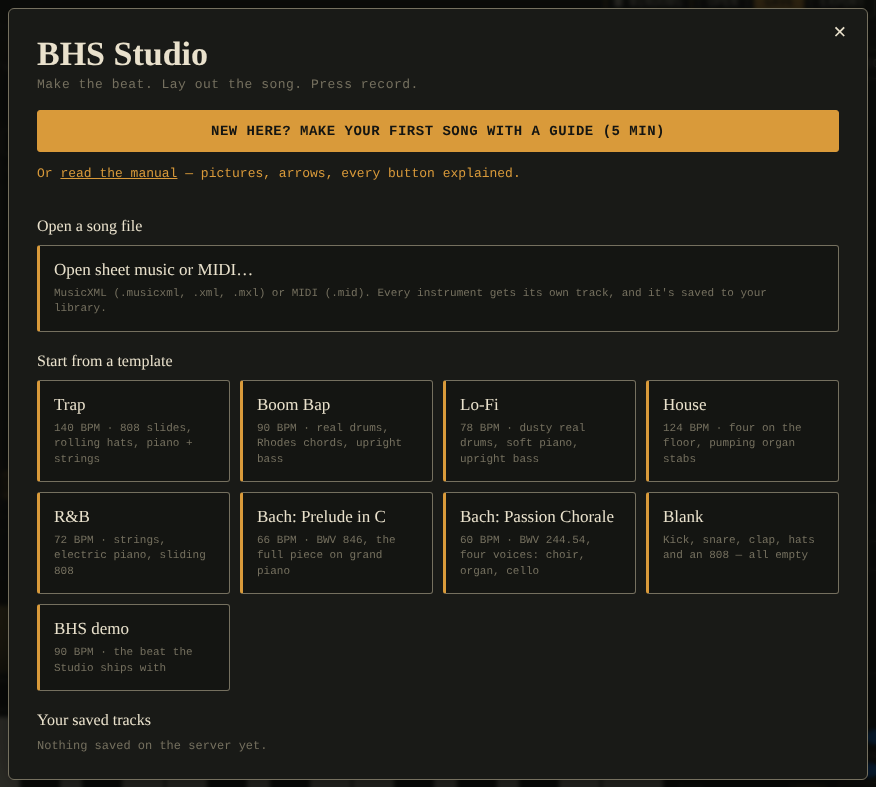
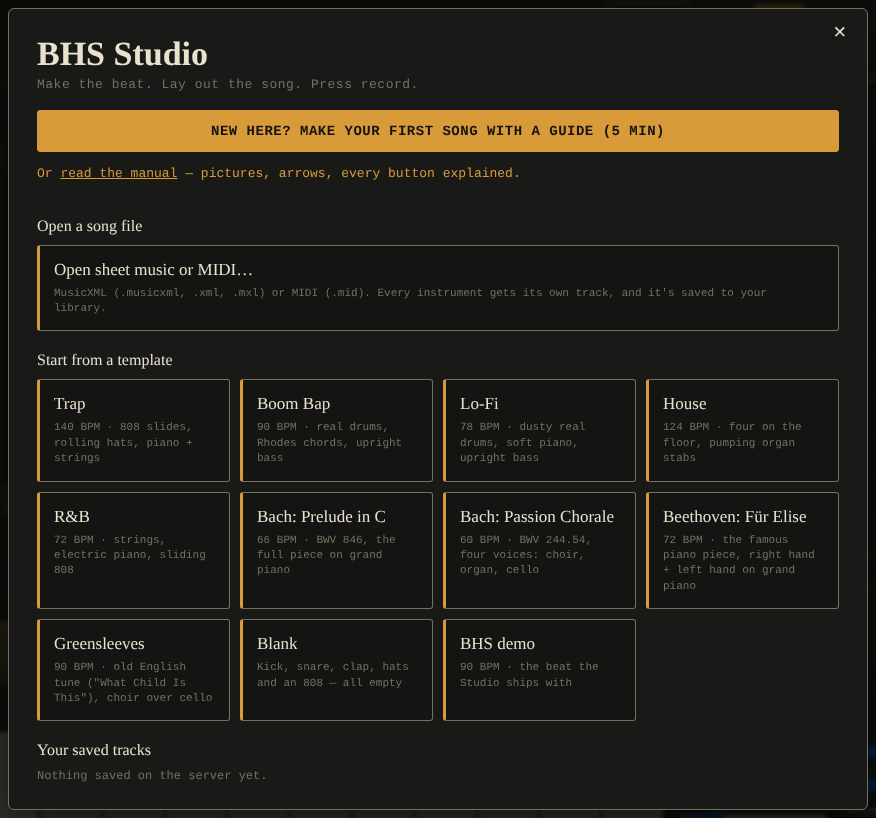
Studio: add Fur Elise and Greensleeves templates (public domain, from Mutopia)
Read from Mutopia's engraved MIDI with song-file.js. Fur Elise (Beethoven
WoO 59) on grand piano, right + left hand; Greensleeves as SATB hymn setting,
choir over cello, E minor, 90 BPM. Manual updated and re-shot.

Claude-Session: https://claude.ai/code/session_01A9NoLxQZREDjQQzigy9TKH

diff --git a/public/js/engine/templates.js b/public/js/engine/templates.js
@@ -175,6 +175,40 @@ const Templates = (() => {
         {"name": "Chorale", "bars": 13, "play": {"Soprano": "AAAABBBBCCCCD", "Alto": "AAAABBBBCCCCD", "Tenor": "AAAABBBBCCCCD", "Bass": "AAAABBBBCCCCD"}},
       ]
     },
+    // Public-domain pieces from the Mutopia Project (mutopiaproject.org), read from their
+    // engraved MIDI by song-file.js. Fur Elise: Beethoven, WoO 59 (Breitkopf & Haertel 1888 edition).
+    // Greensleeves: traditional 16th-century English melody, SATB hymn setting, upper / lower staff.
+    // The pieces are not in 4/4, so bar lines in the Studio do not match the printed bars.
+    {
+      id: "fur-elise", label: "Beethoven: F\u00fcr Elise", blurb: "72 BPM \u00b7 the famous piano piece, right hand + left hand on grand piano",
+      bpm: 72, kit: 'acoustic', swing: 0, key: {"root": 9, "scale": "minor"},
+      drums: [],
+      synths: [
+        {"name": "Right hand 1", "instrument": "real-piano", "bars": 4, "A": [[0, 76, 1], [1, 75, 1], [2, 76, 1], [3, 75, 1], [4, 76, 1], [5, 71, 1], [6, 74, 1], [7, 72, 1], [8, 69, 2], [11, 60, 1], [12, 64, 1], [13, 69, 1], [14, 71, 2], [17, 64, 1], [18, 68, 1], [19, 71, 1], [20, 72, 2], [23, 64, 1], [24, 76, 1], [25, 75, 1], [26, 76, 1], [27, 75, 1], [28, 76, 1], [29, 71, 1], [30, 74, 1], [31, 72, 1], [32, 69, 2], [35, 60, 1], [36, 64, 1], [37, 69, 1], [38, 71, 2], [41, 64, 1], [42, 72, 1], [43, 71, 1], [44, 69, 4], [48, 69, 2], [51, 71, 1], [52, 72, 1], [53, 74, 1], [54, 76, 3], [57, 67, 1], [58, 77, 1], [59, 76, 1], [60, 74, 3], [63, 65, 1]], "B": [[0, 76, 1], [1, 74, 1], [2, 72, 3], [5, 64, 1], [6, 74, 1], [7, 72, 1], [8, 71, 2], [11, 64, 1], [12, 76, 1], [15, 76, 1], [16, 88, 1], [19, 75, 1], [20, 76, 2], [23, 75, 1], [24, 76, 1], [25, 75, 1], [26, 76, 1], [27, 75, 1], [28, 76, 1], [29, 71, 1], [30, 74, 1], [31, 72, 1], [32, 69, 2], [35, 60, 1], [36, 64, 1], [37, 69, 1], [38, 71, 2], [41, 64, 1], [42, 68, 1], [43, 71, 1], [44, 72, 2], [47, 64, 1], [48, 76, 1], [49, 75, 1], [50, 76, 1], [51, 75, 1], [52, 76, 1], [53, 71, 1], [54, 74, 1], [55, 72, 1], [56, 69, 2], [59, 60, 1], [60, 64, 1], [61, 69, 1], [62, 71, 2]], "C": [[1, 64, 1], [2, 72, 1], [3, 71, 1], [4, 69, 2], [7, 71, 1], [8, 72, 1], [9, 74, 1], [10, 69, 2], [13, 64, 1], [13, 72, 1], [14, 65, 1], [14, 72, 1], [15, 64, 1], [15, 67, 1], [15, 72, 1], [16, 65, 1], [16, 69, 1], [16, 72, 4], [20, 77, 2], [22, 76, 1], [22, 76, 2], [24, 74, 2], [26, 82, 2], [28, 81, 1], [28, 81, 1], [29, 79, 1], [30, 77, 1], [31, 76, 1], [32, 74, 1], [33, 72, 1], [34, 70, 2], [36, 69, 2], [38, 69, 1], [38, 70, 1], [39, 67, 1], [39, 69, 1], [40, 70, 1], [40, 72, 4], [44, 74, 1], [45, 75, 1], [46, 76, 3], [49, 76, 1], [50, 77, 1], [51, 69, 1], [52, 72, 4], [56, 74, 2], [58, 71, 1], [58, 72, 1], [59, 67, 1], [59, 79, 1], [60, 69, 1], [60, 79, 1], [61, 71, 1], [61, 79, 1], [62, 72, 1], [62, 79, 1], [63, 74, 1], [63, 79, 1]], "D": [[0, 76, 1], [0, 79, 1], [1, 79, 1], [1, 84, 1], [2, 81, 1], [2, 83, 1], [3, 77, 1], [3, 79, 1], [4, 74, 1], [4, 76, 1], [5, 77, 1], [5, 79, 1], [6, 72, 1], [6, 74, 1], [7, 67, 1], [7, 79, 1], [8, 69, 1], [8, 79, 1], [9, 71, 1], [9, 79, 1], [10, 72, 1], [10, 79, 1], [11, 74, 1], [11, 79, 1], [12, 76, 1], [12, 79, 1], [13, 79, 1], [13, 84, 1], [14, 81, 1], [14, 83, 1], [15, 77, 1], [15, 79, 1], [16, 74, 1], [16, 76, 1], [17, 77, 1], [17, 79, 1], [18, 74, 1], [18, 76, 1], [19, 76, 1], [19, 77, 1], [20, 75, 1], [20, 76, 1], [21, 71, 1], [21, 76, 1], [22, 75, 1], [22, 76, 1], [23, 71, 1], [23, 76, 1], [24, 75, 1], [24, 76, 3], [27, 71, 1], [28, 76, 1], [29, 75, 1], [30, 76, 3], [33, 71, 1], [34, 76, 1], [35, 75, 1], [36, 76, 1], [37, 75, 1], [38, 76, 1], [39, 75, 1], [40, 76, 1], [41, 75, 1], [42, 76, 1], [43, 75, 1], [44, 76, 1], [45, 71, 1], [46, 74, 1], [47, 72, 1], [48, 69, 2], [51, 60, 1], [52, 64, 1], [53, 69, 1], [54, 71, 2], [57, 64, 1], [58, 68, 1], [59, 71, 1], [60, 72, 2], [63, 64, 1]]},
+        {"name": "Right hand 2", "instrument": "real-piano", "bars": 4, "A": [[0, 76, 1], [1, 75, 1], [2, 76, 1], [3, 75, 1], [4, 76, 1], [5, 71, 1], [6, 74, 1], [7, 72, 1], [8, 69, 2], [11, 60, 1], [12, 64, 1], [13, 69, 1], [14, 71, 2], [17, 64, 1], [18, 72, 1], [19, 71, 1], [20, 69, 2], [23, 71, 1], [24, 72, 1], [25, 74, 1], [26, 76, 3], [29, 67, 1], [30, 77, 1], [31, 76, 1], [32, 74, 3], [35, 65, 1], [36, 76, 1], [37, 74, 1], [38, 72, 3], [41, 64, 1], [42, 74, 1], [43, 72, 1], [44, 71, 2], [47, 64, 1], [48, 76, 1], [51, 76, 1], [52, 88, 1], [55, 75, 1], [56, 76, 1], [59, 75, 1], [60, 76, 1], [61, 75, 1], [62, 76, 1], [63, 75, 1]], "B": [[0, 76, 1], [1, 71, 1], [2, 74, 1], [3, 72, 1], [4, 69, 2], [7, 60, 1], [8, 64, 1], [9, 69, 1], [10, 71, 2], [13, 64, 1], [14, 68, 1], [15, 71, 1], [16, 72, 2], [19, 64, 1], [20, 76, 1], [21, 75, 1], [22, 76, 1], [23, 75, 1], [24, 76, 1], [25, 71, 1], [26, 74, 1], [27, 72, 1], [28, 69, 2], [31, 60, 1], [32, 64, 1], [33, 69, 1], [34, 71, 2], [37, 64, 1], [38, 72, 1], [39, 71, 1], [40, 69, 2], [46, 64, 6], [46, 67, 6], [46, 70, 6], [46, 73, 6], [52, 65, 4], [52, 69, 4], [52, 74, 4], [56, 73, 1], [56, 76, 1], [57, 74, 1], [57, 77, 1], [58, 68, 4], [58, 74, 4], [58, 77, 4], [62, 68, 2], [62, 74, 2], [62, 77, 2]], "C": [[0, 69, 6], [0, 72, 6], [0, 76, 6], [6, 65, 4], [6, 74, 4], [10, 64, 1], [10, 72, 1], [11, 62, 1], [11, 71, 1], [12, 60, 4], [12, 66, 4], [12, 69, 4], [16, 60, 2], [16, 69, 2], [18, 60, 2], [18, 69, 2], [20, 64, 2], [20, 72, 2], [22, 62, 2], [22, 71, 2], [24, 60, 6], [24, 69, 6], [30, 64, 6], [30, 67, 6], [30, 70, 6], [30, 73, 6], [36, 65, 4], [36, 69, 4], [36, 74, 4], [40, 73, 1], [40, 76, 1], [41, 74, 1], [41, 77, 1], [42, 74, 4], [42, 77, 4], [46, 74, 2], [46, 77, 2], [48, 74, 6], [48, 77, 6], [54, 67, 4], [54, 75, 4], [58, 65, 1], [58, 74, 1], [59, 63, 1], [59, 72, 1], [60, 62, 4], [60, 65, 4], [60, 70, 4]], "D": [[0, 62, 2], [0, 65, 2], [0, 69, 2], [2, 62, 4], [2, 65, 4], [2, 68, 4], [6, 62, 2], [6, 65, 2], [6, 68, 2], [8, 60, 4], [8, 64, 4], [8, 69, 4], [14, 64, 2], [14, 71, 2], [20, 57, 1], [21, 60, 1], [21, 64, 1], [22, 69, 1], [23, 72, 1], [23, 76, 1], [24, 74, 1], [25, 71, 1], [25, 72, 1], [26, 69, 1], [27, 72, 1], [27, 76, 1], [28, 81, 1], [29, 84, 1], [29, 88, 1], [30, 86, 1], [31, 83, 1], [31, 84, 1], [32, 81, 1], [33, 84, 1], [33, 88, 1], [34, 93, 1], [35, 96, 1], [35, 100, 1], [36, 98, 1], [37, 95, 1], [37, 96, 1], [38, 94, 1], [39, 92, 1], [39, 93, 1], [40, 91, 1], [41, 89, 1], [41, 90, 1], [42, 88, 1], [43, 86, 1], [43, 87, 1], [44, 85, 1], [45, 83, 1], [45, 84, 1], [46, 82, 1], [47, 80, 1], [47, 81, 1], [48, 79, 1], [49, 77, 1], [49, 78, 1], [50, 76, 1], [51, 75, 1], [52, 76, 1], [53, 71, 1], [54, 74, 1], [55, 72, 1], [56, 69, 2], [59, 60, 1], [60, 64, 1], [61, 69, 1], [62, 71, 2]]},
+        {"name": "Right hand 3", "instrument": "real-piano", "bars": 4, "A": [[1, 64, 1], [2, 68, 1], [3, 71, 1], [4, 72, 2], [7, 64, 1], [8, 76, 1], [9, 75, 1], [10, 76, 1], [11, 75, 1], [12, 76, 1], [13, 71, 1], [14, 74, 1], [15, 72, 1], [16, 69, 2], [19, 60, 1], [20, 64, 1], [21, 69, 1], [22, 71, 2], [25, 64, 1], [26, 72, 1], [27, 71, 1], [28, 69, 2], [31, 71, 1], [32, 72, 1], [33, 74, 1], [34, 76, 3], [37, 67, 1], [38, 77, 1], [39, 76, 1], [40, 74, 3], [43, 65, 1], [44, 76, 1], [45, 74, 1], [46, 72, 3], [49, 64, 1], [50, 74, 1], [51, 72, 1], [52, 71, 2], [55, 64, 1], [56, 76, 1], [59, 76, 1], [60, 88, 1], [63, 75, 1]], "B": [[0, 76, 1], [3, 75, 1], [4, 76, 1], [5, 75, 1], [6, 76, 1], [7, 75, 1], [8, 76, 1], [9, 71, 1], [10, 74, 1], [11, 72, 1], [12, 69, 2], [15, 60, 1], [16, 64, 1], [17, 69, 1], [18, 71, 2], [21, 64, 1], [22, 68, 1], [23, 71, 1], [24, 72, 2], [27, 64, 1], [28, 76, 1], [29, 75, 1], [30, 76, 1], [31, 75, 1], [32, 76, 1], [33, 71, 1], [34, 74, 1], [35, 72, 1], [36, 69, 2], [39, 60, 1], [40, 64, 1], [41, 69, 1], [42, 71, 2], [45, 64, 1], [46, 72, 1], [47, 71, 1], [48, 69, 2]]},
+        {"name": "Left hand 1", "instrument": "real-piano", "bars": 4, "A": [[8, 45, 1], [9, 52, 1], [10, 57, 1], [14, 40, 1], [15, 52, 1], [16, 56, 1], [20, 45, 1], [21, 52, 1], [22, 57, 1], [32, 45, 1], [33, 52, 1], [34, 57, 1], [38, 40, 1], [39, 52, 1], [40, 56, 1], [44, 45, 1], [45, 52, 1], [46, 57, 1], [48, 45, 1], [49, 52, 1], [50, 57, 1], [54, 48, 1], [55, 55, 1], [56, 60, 1], [60, 43, 1], [61, 55, 1], [62, 59, 1]], "B": [[2, 45, 1], [3, 52, 1], [4, 57, 1], [8, 40, 1], [9, 52, 1], [10, 64, 1], [13, 64, 1], [14, 76, 1], [17, 75, 1], [18, 76, 1], [21, 75, 1], [22, 76, 1], [32, 45, 1], [33, 52, 1], [34, 57, 1], [38, 40, 1], [39, 52, 1], [40, 56, 1], [44, 45, 1], [45, 52, 1], [46, 57, 1], [56, 45, 1], [57, 52, 1], [58, 57, 1], [62, 40, 1], [63, 52, 1]], "C": [[0, 56, 1], [4, 45, 1], [5, 52, 1], [6, 57, 1], [10, 45, 1], [11, 52, 1], [12, 57, 1], [13, 58, 1], [13, 60, 1], [14, 57, 1], [14, 60, 1], [15, 55, 1], [15, 58, 1], [15, 60, 1], [16, 53, 1], [17, 57, 1], [18, 60, 1], [19, 57, 1], [20, 60, 1], [21, 57, 1], [22, 53, 1], [23, 58, 1], [24, 62, 1], [25, 58, 1], [26, 62, 1], [27, 58, 1], [28, 53, 1], [29, 64, 1], [30, 53, 1], [30, 55, 1], [30, 58, 1], [31, 64, 1], [32, 53, 1], [32, 55, 1], [32, 58, 1], [33, 64, 1], [34, 53, 1], [35, 57, 1], [36, 60, 1], [37, 57, 1], [38, 60, 1], [39, 57, 1], [40, 53, 1], [41, 57, 1], [42, 60, 1], [43, 57, 1], [44, 60, 1], [45, 57, 1], [46, 52, 1], [47, 57, 1], [48, 60, 1], [49, 57, 1], [50, 50, 1], [50, 62, 1], [51, 53, 1], [52, 55, 1], [53, 64, 1], [54, 55, 1], [55, 64, 1], [56, 55, 1], [57, 65, 1], [58, 60, 2], [58, 64, 2], [61, 65, 1], [61, 67, 1], [62, 64, 1], [62, 67, 1], [63, 62, 1], [63, 65, 1], [63, 67, 1]], "D": [[0, 60, 2], [0, 64, 2], [0, 67, 2], [2, 53, 2], [2, 57, 2], [4, 55, 2], [4, 59, 2], [6, 60, 2], [9, 65, 1], [9, 67, 1], [10, 64, 1], [10, 67, 1], [11, 62, 1], [11, 65, 1], [11, 67, 1], [12, 60, 2], [12, 64, 2], [12, 67, 2], [14, 53, 2], [14, 57, 2], [16, 55, 2], [16, 59, 2], [18, 56, 2], [18, 59, 2], [48, 45, 1], [49, 52, 1], [50, 57, 1], [54, 40, 1], [55, 52, 1], [56, 56, 1], [60, 45, 1], [61, 52, 1], [62, 57, 1]]},
+        {"name": "Left hand 2", "instrument": "real-piano", "bars": 4, "A": [[8, 45, 1], [9, 52, 1], [10, 57, 1], [14, 40, 1], [15, 52, 1], [16, 56, 1], [20, 45, 1], [21, 52, 1], [22, 57, 1], [26, 48, 1], [27, 55, 1], [28, 60, 1], [32, 43, 1], [33, 55, 1], [34, 59, 1], [38, 45, 1], [39, 52, 1], [40, 57, 1], [44, 40, 1], [45, 52, 1], [46, 64, 1], [49, 64, 1], [50, 76, 1], [53, 75, 1], [54, 76, 1], [57, 75, 1], [58, 76, 1]], "B": [[4, 45, 1], [5, 52, 1], [6, 57, 1], [10, 40, 1], [11, 52, 1], [12, 56, 1], [16, 45, 1], [17, 52, 1], [18, 57, 1], [28, 45, 1], [29, 52, 1], [30, 57, 1], [34, 40, 1], [35, 52, 1], [36, 56, 1], [40, 45, 1], [41, 45, 1], [42, 45, 1], [43, 45, 1], [44, 45, 1], [45, 45, 1], [46, 45, 1], [47, 45, 1], [48, 45, 1], [49, 45, 1], [50, 45, 1], [51, 45, 1], [52, 45, 1], [53, 45, 1], [54, 45, 1], [55, 45, 1], [56, 45, 1], [57, 45, 1], [58, 45, 1], [59, 45, 1], [60, 45, 1], [61, 45, 1], [62, 45, 1], [63, 45, 1]], "C": [[0, 45, 1], [1, 45, 1], [2, 45, 1], [3, 45, 1], [4, 45, 1], [5, 45, 1], [6, 38, 1], [6, 45, 1], [7, 38, 1], [7, 45, 1], [8, 38, 1], [8, 45, 1], [9, 38, 1], [9, 45, 1], [10, 38, 1], [10, 45, 1], [11, 38, 1], [11, 45, 1], [12, 39, 1], [12, 45, 1], [13, 39, 1], [13, 45, 1], [14, 39, 1], [14, 45, 1], [15, 39, 1], [15, 45, 1], [16, 39, 1], [16, 45, 1], [17, 39, 1], [17, 45, 1], [18, 40, 1], [18, 45, 1], [19, 40, 1], [19, 45, 1], [20, 40, 1], [20, 45, 1], [21, 40, 1], [21, 45, 1], [22, 40, 1], [22, 44, 1], [23, 40, 1], [23, 44, 1], [24, 33, 1], [24, 45, 1], [25, 45, 1], [26, 45, 1], [27, 45, 1], [28, 45, 1], [29, 45, 1], [30, 45, 1], [31, 45, 1], [32, 45, 1], [33, 45, 1], [34, 45, 1], [35, 45, 1], [36, 45, 1], [37, 45, 1], [38, 45, 1], [39, 45, 1], [40, 45, 1], [41, 45, 1], [42, 45, 1], [43, 45, 1], [44, 45, 1], [45, 45, 1], [46, 45, 1], [47, 45, 1], [48, 46, 1], [49, 46, 1], [50, 46, 1], [51, 46, 1], [52, 46, 1], [53, 46, 1], [54, 46, 1], [55, 46, 1], [56, 46, 1], [57, 46, 1], [58, 46, 1], [59, 46, 1], [60, 46, 1], [61, 46, 1], [62, 46, 1], [63, 46, 1]], "D": [[0, 46, 1], [1, 46, 1], [2, 47, 1], [3, 47, 1], [4, 47, 1], [5, 47, 1], [6, 47, 1], [7, 47, 1], [8, 48, 4], [14, 52, 2], [14, 56, 2], [20, 33, 2], [24, 57, 2], [24, 60, 2], [24, 64, 2], [26, 57, 2], [26, 60, 2], [26, 64, 2], [30, 57, 2], [30, 60, 2], [30, 64, 2], [32, 57, 2], [32, 60, 2], [32, 64, 2], [36, 57, 2], [36, 60, 2], [36, 64, 2], [38, 57, 2], [38, 60, 2], [38, 64, 2], [56, 45, 1], [57, 52, 1], [58, 57, 1], [62, 40, 1], [63, 52, 1]]},
+        {"name": "Left hand 3", "instrument": "real-piano", "bars": 4, "A": [[0, 56, 1], [4, 45, 1], [5, 52, 1], [6, 57, 1], [16, 45, 1], [17, 52, 1], [18, 57, 1], [22, 40, 1], [23, 52, 1], [24, 56, 1], [28, 45, 1], [29, 52, 1], [30, 57, 1], [34, 48, 1], [35, 55, 1], [36, 60, 1], [40, 43, 1], [41, 55, 1], [42, 59, 1], [46, 45, 1], [47, 52, 1], [48, 57, 1], [52, 40, 1], [53, 52, 1], [54, 64, 1], [57, 64, 1], [58, 76, 1], [61, 75, 1], [62, 76, 1]], "B": [[1, 75, 1], [2, 76, 1], [12, 45, 1], [13, 52, 1], [14, 57, 1], [18, 40, 1], [19, 52, 1], [20, 56, 1], [24, 45, 1], [25, 52, 1], [26, 57, 1], [36, 45, 1], [37, 52, 1], [38, 57, 1], [42, 40, 1], [43, 52, 1], [44, 56, 1], [48, 33, 2], [48, 45, 2]]}
+      ],
+      sections: [
+        {"name": "Bars 1-16", "bars": 16, "play": {"Right hand 1": "AAAABBBBCCCCDDDD", "Left hand 1": "AAAABBBBCCCCDDDD"}},
+        {"name": "Bars 17-32", "bars": 16, "play": {"Right hand 2": "AAAABBBBCCCCDDDD", "Left hand 2": "AAAABBBBCCCCDDDD"}},
+        {"name": "Bars 33-40", "bars": 8, "play": {"Right hand 3": "AAAABBBB", "Left hand 3": "AAAABBBB"}}
+      ]
+    },
+    {
+      id: "greensleeves", label: "Greensleeves", blurb: "90 BPM \u00b7 old English tune (\"What Child Is This\"), choir over cello",
+      bpm: 90, kit: 'acoustic', swing: 0, key: {"root": 4, "scale": "minor"},
+      drums: [],
+      synths: [
+        {"name": "Voices", "instrument": "gm-choir-aahs", "bars": 4, "A": [[0, 59, 2], [0, 64, 2], [2, 64, 4], [2, 67, 4], [6, 62, 2], [6, 69, 2], [8, 62, 3], [8, 71, 3], [11, 72, 1], [12, 67, 2], [12, 71, 2], [14, 66, 4], [14, 69, 4], [18, 62, 2], [18, 66, 2], [20, 62, 3], [23, 64, 1], [24, 60, 2], [24, 66, 2], [26, 59, 4], [26, 67, 4], [30, 59, 2], [30, 64, 2], [32, 57, 3], [32, 64, 3], [35, 63, 1], [36, 64, 2], [38, 63, 6], [38, 66, 6], [44, 59, 4], [48, 59, 2], [48, 64, 2], [50, 64, 4], [50, 67, 4], [54, 62, 2], [54, 69, 2], [56, 62, 3], [56, 71, 3], [59, 72, 1], [60, 67, 2], [60, 71, 2], [62, 66, 2], [62, 69, 2]], "B": [[2, 62, 2], [2, 66, 2], [4, 62, 3], [7, 64, 1], [8, 60, 2], [8, 66, 2], [10, 59, 3], [10, 67, 3], [13, 66, 1], [14, 60, 2], [14, 64, 2], [16, 59, 3], [16, 63, 3], [19, 61, 1], [20, 59, 2], [20, 63, 2], [22, 59, 6], [22, 64, 6], [28, 59, 4], [28, 64, 4], [34, 66, 6], [34, 74, 6], [40, 71, 3], [40, 74, 3], [43, 69, 1], [43, 73, 1], [44, 67, 2], [44, 71, 2], [46, 66, 4], [46, 69, 4], [50, 62, 2], [50, 66, 2], [52, 62, 3], [55, 64, 1], [56, 60, 2], [56, 66, 2], [58, 59, 4], [58, 67, 4], [62, 59, 2], [62, 64, 2]], "C": [[0, 57, 3], [0, 64, 3], [3, 63, 1], [4, 64, 2], [6, 63, 4], [6, 66, 4], [10, 59, 2], [10, 63, 2], [12, 59, 4], [18, 66, 6], [18, 74, 6], [24, 71, 3], [24, 74, 3], [27, 69, 1], [27, 72, 1], [28, 67, 2], [28, 71, 2], [30, 66, 4], [30, 69, 4], [34, 62, 2], [34, 66, 2], [36, 62, 4], [39, 64, 1], [40, 60, 2], [40, 66, 2], [42, 59, 3], [42, 67, 3], [45, 66, 1], [46, 60, 2], [46, 64, 2], [48, 59, 3], [48, 63, 3], [51, 61, 1], [52, 59, 2], [52, 63, 2], [54, 59, 6], [54, 64, 6], [60, 59, 4], [60, 64, 4]]},
+        {"name": "Low voices", "instrument": "real-cello", "bars": 4, "A": [[0, 52, 2], [0, 55, 2], [2, 52, 4], [2, 59, 4], [6, 54, 2], [6, 57, 2], [8, 55, 4], [12, 55, 2], [12, 59, 2], [14, 50, 4], [14, 62, 2], [16, 62, 2], [18, 50, 2], [18, 57, 2], [20, 50, 4], [20, 54, 4], [24, 51, 2], [24, 57, 2], [26, 52, 4], [26, 55, 4], [30, 52, 2], [30, 55, 2], [32, 48, 4], [32, 57, 4], [36, 48, 2], [36, 52, 2], [38, 47, 6], [38, 59, 6], [44, 47, 4], [44, 59, 4], [48, 52, 2], [48, 55, 2], [50, 52, 4], [50, 59, 4], [54, 54, 2], [54, 57, 2], [56, 55, 4], [60, 55, 2], [60, 59, 2], [62, 50, 2], [62, 62, 2]], "B": [[0, 50, 2], [2, 50, 2], [2, 57, 2], [4, 50, 4], [4, 54, 4], [8, 54, 2], [8, 57, 2], [10, 52, 4], [10, 55, 4], [14, 45, 2], [14, 57, 2], [16, 47, 4], [16, 54, 4], [20, 47, 2], [20, 54, 2], [22, 52, 6], [22, 55, 6], [28, 52, 4], [28, 55, 4], [34, 59, 6], [40, 55, 4], [40, 62, 4], [44, 55, 2], [44, 62, 2], [46, 50, 4], [46, 62, 4], [50, 50, 2], [50, 57, 2], [52, 50, 4], [52, 54, 4], [56, 51, 2], [56, 57, 2], [58, 52, 4], [58, 55, 4], [62, 52, 2], [62, 55, 2]], "C": [[0, 48, 4], [0, 57, 4], [4, 48, 2], [4, 52, 2], [6, 47, 4], [6, 59, 4], [10, 47, 2], [10, 54, 2], [12, 47, 4], [12, 59, 4], [18, 59, 6], [24, 55, 4], [24, 62, 4], [28, 55, 2], [28, 62, 2], [30, 50, 2], [30, 62, 4], [32, 50, 2], [34, 50, 2], [34, 57, 2], [36, 50, 4], [36, 54, 4], [40, 51, 2], [40, 57, 2], [42, 52, 4], [42, 55, 4], [46, 45, 2], [46, 57, 2], [48, 47, 4], [48, 54, 4], [52, 47, 2], [52, 54, 2], [54, 52, 6], [54, 55, 6], [60, 52, 4], [60, 55, 4]]}
+      ],
+      sections: [
+        {"name": "Bars 1-12", "bars": 12, "play": {"Voices": "AAAABBBBCCCC", "Low voices": "AAAABBBBCCCC"}}
+      ]
+    },
     {
       id: 'blank', label: 'Blank', blurb: 'Kick, snare, clap, hats and an 808 — all empty',
       bpm: 90, kit: 'trap', swing: 0, key: null,

diff --git a/public/manual.html b/public/manual.html
@@ -98,7 +98,7 @@
   <h2 id="quick">1 · Make your first beat in 5 minutes</h2>
   <figure class="shot" data-shot="start"></figure>
   <ul class="callout-key">
-    <li><span class="num">1</span><span><b>A template</b> — a finished little song in a style (Trap, Boom Bap, Lo-Fi, House, R&amp;B), or a full Bach piece to play along with or remix (Prelude in C, Passion Chorale). Best way to start: pick one and change it.</span></li>
+    <li><span class="num">1</span><span><b>A template</b> — a finished little song in a style (Trap, Boom Bap, Lo-Fi, House, R&amp;B), or a real piece to play along with or remix: two full Bach pieces (Prelude in C, Passion Chorale), Beethoven's F&uuml;r Elise, and Greensleeves. Best way to start: pick one and change it.</span></li>
     <li><span class="num">2</span><span><b>Blank</b> — kick, snare, clap, hats and an 808, all empty, for starting from scratch.</span></li>
     <li><span class="num">3</span><span><b>Your saved tracks</b> — anything you saved, click to open it.</span></li>
     <li><span class="num">4</span><span><b>×</b> closes this and carries on with whatever you were last working on.</span></li>
